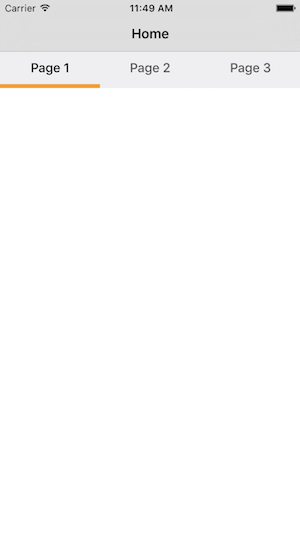
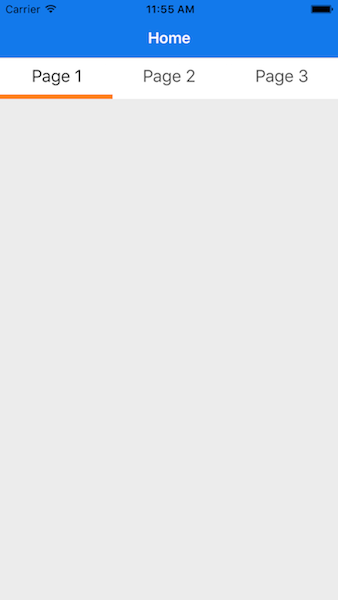
Image file updated, theme change.

Changed region(s): [[0.0, 0.0, 1.0, 0.1798]]

diff --git a/RSSegmentViewControllerExample/RSSegmentViewControllerExample/ViewControllers/HomeViewController.m b/RSSegmentViewControllerExample/RSSegmentViewControllerExample/ViewControllers/HomeViewController.m
@@ -23,6 +23,7 @@
         self.selectedTextAtttibutes = @{NSForegroundColorAttributeName : [UIColor blackColor]};
         
         self.selectionIndicatorColor = [UIColor orangeColor];
+        self.segmentControlBackGroundColor = [UIColor whiteColor];
     }
     return self;
 }
